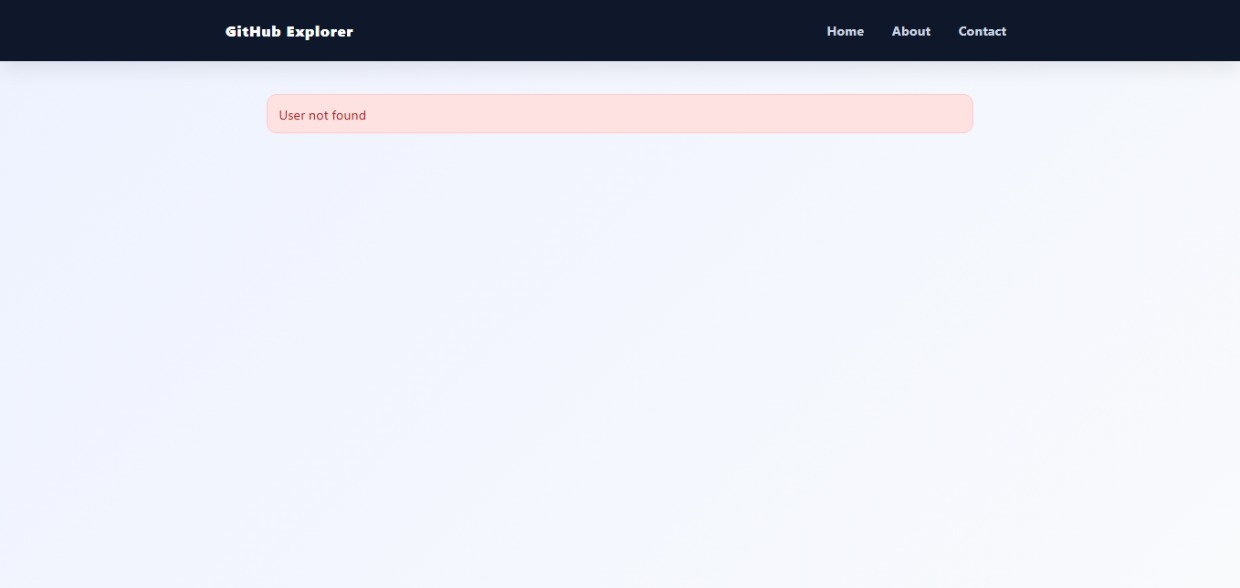
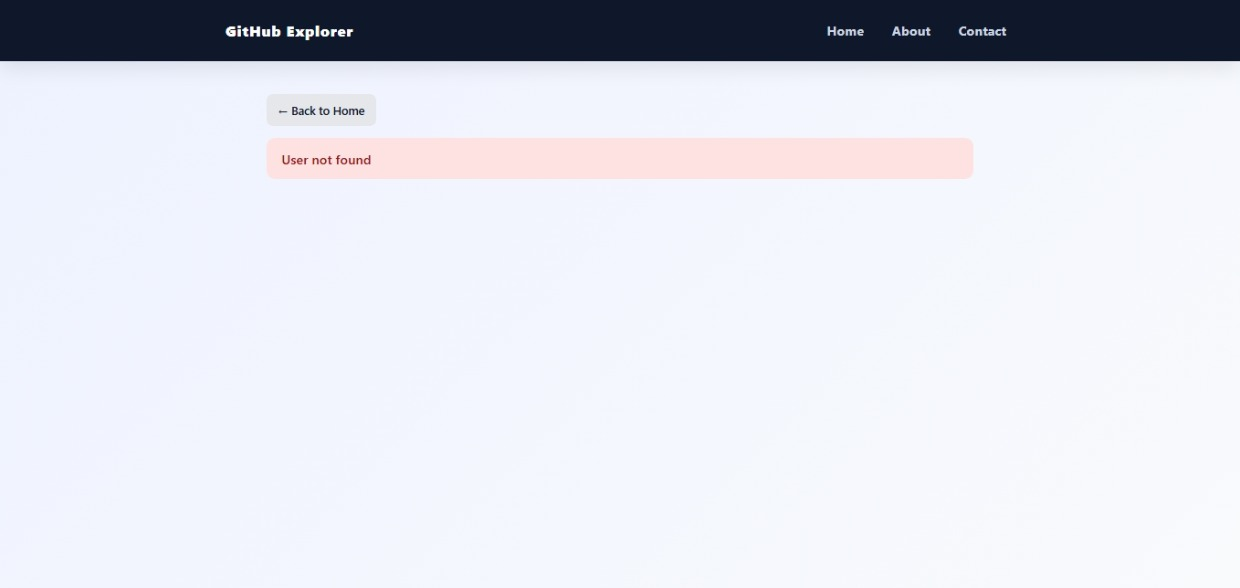
Add back button to UserProfile for improved navigation

Changed region(s): [[0.2145, 0.1531, 0.7968, 0.3061]]

diff --git a/src/components/UserProfile.jsx b/src/components/UserProfile.jsx
@@ -1,22 +1,33 @@
+import { Link } from "react-router-dom";
+
 function UserProfile({ user }) {
   return (
-    <div className="card">
-      <div className="user-row">
-        <img src={user.avatar_url} alt="avatar" className="avatar" />
+    <div>
+      <Link to="/" className="back-button">
+        ← Back to Home
+      </Link>
 
-        <div>
-          <h2 className="user-name">{user.name || user.login}</h2>
-          {user.bio && <p className="user-meta">{user.bio}</p>}
+      <div className="card">
+        <div className="user-row">
+          <img src={user.avatar_url} alt="avatar" className="avatar" />
 
-          <div className="user-stats">
-            <div className="stat">
-              Followers: <strong>{user.followers}</strong>
-            </div>
-            <div className="stat">
-              Following: <strong>{user.following}</strong>
-            </div>
-            <div className="stat">
-              Repos: <strong>{user.public_repos}</strong>
+          <div>
+            <h2 className="user-name">{user.name || user.login}</h2>
+
+            {user.bio && <p className="user-meta">{user.bio}</p>}
+
+            <div className="user-stats">
+              <div className="stat">
+                Followers: <strong>{user.followers}</strong>
+              </div>
+
+              <div className="stat">
+                Following: <strong>{user.following}</strong>
+              </div>
+
+              <div className="stat">
+                Repos: <strong>{user.public_repos}</strong>
+              </div>
             </div>
           </div>
         </div>

diff --git a/src/styles/app.css b/src/styles/app.css
@@ -214,3 +214,25 @@ body {
   padding: 12px 14px;
   border-radius: 12px;
 }
+.error-box {
+  background: #fee2e2;
+  color: #991b1b;
+  padding: 14px 18px;
+  border-radius: 10px;
+  font-weight: 500;
+}
+.back-button {
+  display: inline-block;
+  padding: 10px 14px;
+  border-radius: 8px;
+  background: #e5e7eb;
+  color: #0f172a;
+  text-decoration: none;
+  font-size: 14px;
+  font-weight: 600;
+  margin-bottom: 15px;
+}
+
+.back-button:hover {
+  background: #d1d5db;
+}

diff --git a/src/components/Error.jsx b/src/components/Error.jsx
@@ -1,5 +1,15 @@
+import { Link } from "react-router-dom";
+
 function Error({ message }) {
-  return <div className="error">{message}</div>;
+  return (
+    <div>
+      <Link to="/" className="back-button">
+        ← Back to Home
+      </Link>
+
+      <div className="error-box">{message}</div>
+    </div>
+  );
 }
 
 export default Error;
